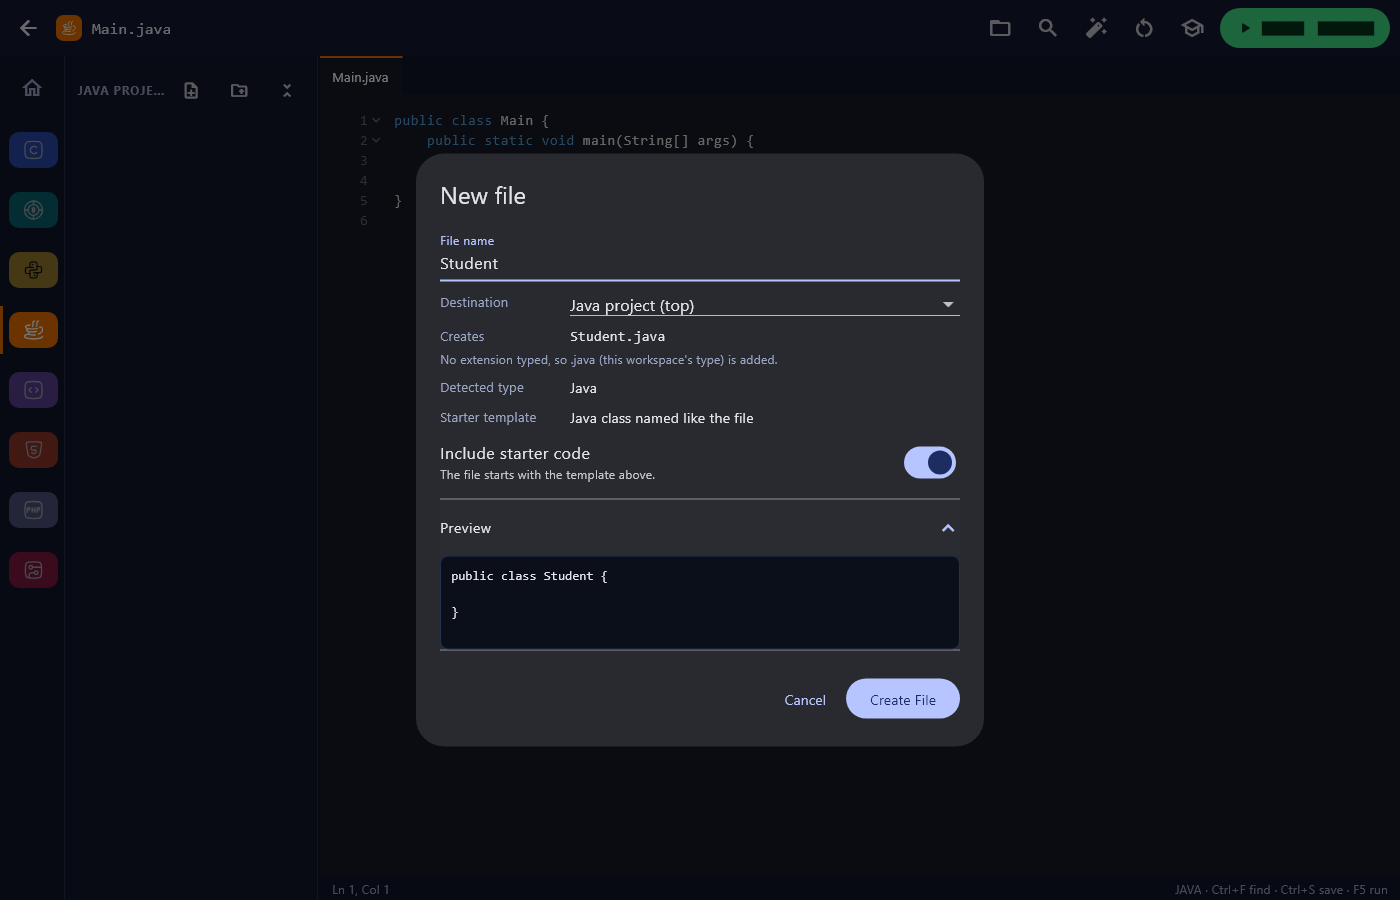
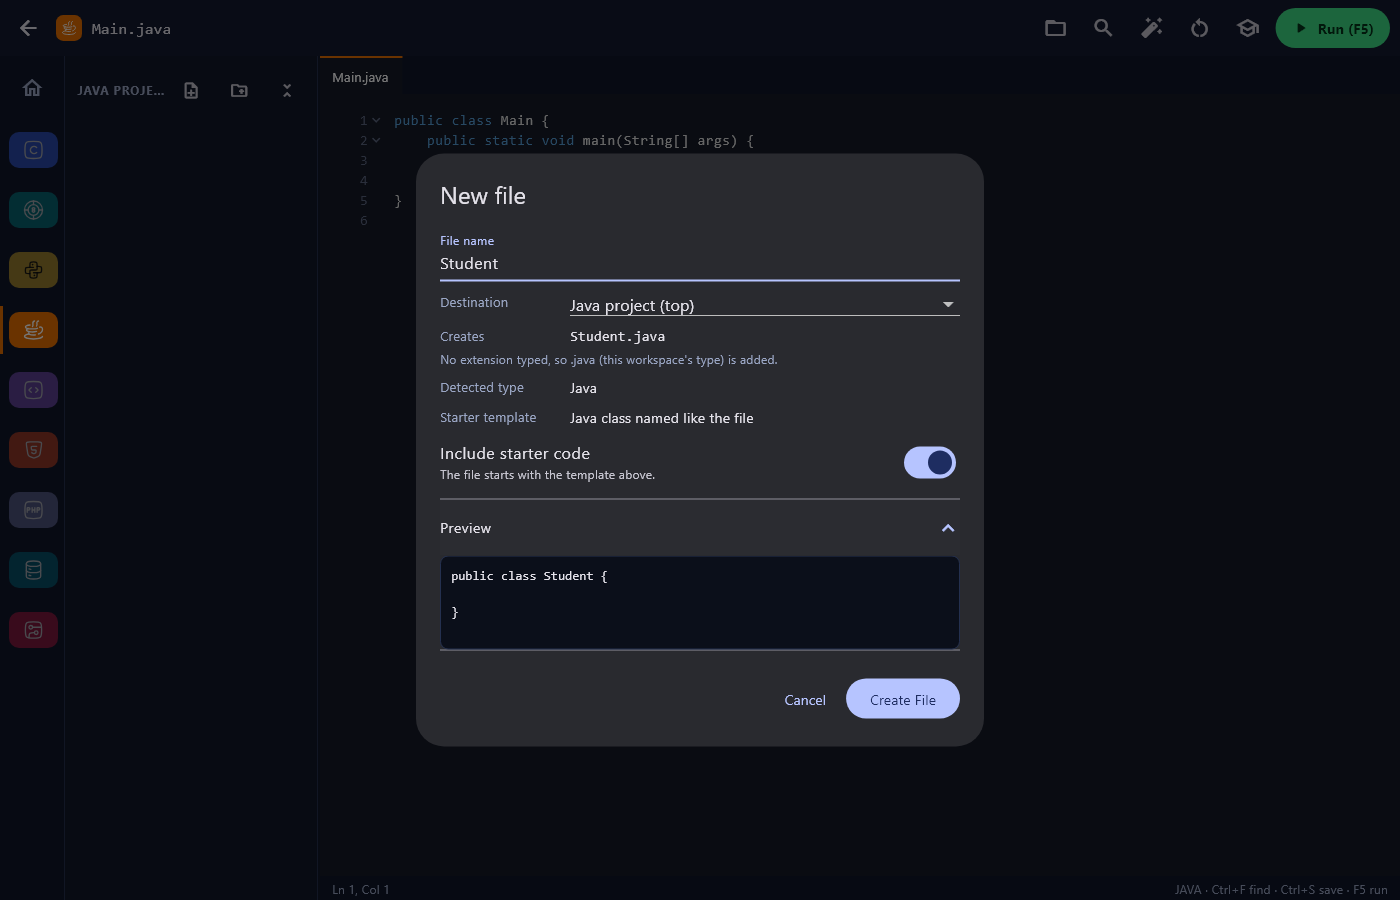
Portfolio kit, refreshed screenshots, Run button uses the theme font
- portfolio/: cover image, 12 captioned screenshots, PORTFOLIO.md (descriptions,
  features, tech stack, role, highlights, credits)
- Run button label keeps the theme's font (it lost it when styled bold)
- Screenshot tool: desktop run shot, home without a stale update banner

diff --git a/tool/screenshots_test.dart b/tool/screenshots_test.dart
@@ -158,7 +158,10 @@ void main() {
   });
 
   testWidgets('home (desktop and phone)', (t) async {
-    t.view.physicalSize = const Size(1280, 975);
+    Updater.instance
+      ..status = UpdateStatus.idle // the update-dialog shot above leaves an update "available"
+      ..latest = null;
+    t.view.physicalSize = const Size(1440, 1240);
     t.view.devicePixelRatio = 1;
     await t.pumpWidget(NexusApp(ready: Future.value()));
     await settle(t);
@@ -190,7 +193,7 @@ void main() {
     await t.pumpWidget(MaterialApp(debugShowCheckedModeBanner: false, theme: Nx.theme(), home: const LearnScreen()));
     await settle(t);
     if (find.byKey(const Key('learn-search')).evaluate().isEmpty) {
-      await t.tap(find.byTooltip('Open navigation menu'));
+      await t.tap(find.byTooltip('Topics'));
       await settle(t);
     }
     await t.enterText(find.byKey(const Key('learn-search')), search);
@@ -323,5 +326,41 @@ void main() {
     await t.drag(find.byKey(const Key('pi3d')), const Offset(120, 40));
     await settle(t);
     await shot(t, 'raspi_3d_turned');
+  });
+
+  testWidgets('desktop: a Python program running, terminal docked', (t) async {
+    t.view.physicalSize = const Size(1600, 900);
+    t.view.devicePixelRatio = 1;
+    Toolchains.toolsDir = '${Directory.current.path}/toolchains';
+    File('${Toolchains.workRoot}/python/main.py')
+      ..createSync(recursive: true)
+      ..writeAsStringSync('''# Grade report: lists, loops and f-strings
+students = {"Ana": [91, 88, 95], "Ben": [74, 80, 69], "Cara": [85, 90, 87]}
+
+print("Student   Average  Remark")
+print("-" * 28)
+for name, scores in students.items():
+    average = sum(scores) / len(scores)
+    remark = "Passed" if average >= 75 else "Failed"
+    print(f"{name:<9} {average:>7.2f}  {remark}")
+
+best = max(students, key=lambda n: sum(students[n]))
+print()
+print(f"Top student: {best}")
+''');
+    await t.pumpWidget(NexusApp(ready: Future.value()));
+    await settle(t);
+    await t.tap(find.text('Scripts and data'));
+    await settle(t);
+    await t.tap(find.byType(RunButton));
+    RunState state() => (find.byType(ConsoleView).evaluate().first.widget as ConsoleView).session.state;
+    for (var i = 0; i < 100 && (find.byType(ConsoleView).evaluate().isEmpty || state() != RunState.finished); i++) {
+      await settle(t);
+    }
+    await settle(t);
+    await shot(t, 'desktop_run');
+    await t.pumpWidget(const SizedBox()); // close the editor (ends the session) and let its timers finish
+    await t.runAsync(() => Future<void>.delayed(const Duration(milliseconds: 300)));
+    await t.pump(const Duration(seconds: 5));
   });
 }

diff --git a/lib/ui/widgets/run_button.dart b/lib/ui/widgets/run_button.dart
@@ -22,7 +22,7 @@ class RunButton extends StatelessWidget {
         backgroundColor: running ? Nx.stop : Nx.run,
         foregroundColor: running ? Colors.white : const Color(0xFF05351B),
         padding: const EdgeInsets.symmetric(horizontal: 16),
-        textStyle: const TextStyle(fontWeight: FontWeight.w700),
+        textStyle: Theme.of(context).textTheme.labelLarge?.copyWith(fontWeight: FontWeight.w700), // the theme's font, bolder
       ),
       icon: Icon(running ? Icons.stop_rounded : icon),
       label: Text(running ? 'Stop' : '$label$hint'),

diff --git a/portfolio/PORTFOLIO.md b/portfolio/PORTFOLIO.md
@@ -1,0 +1,110 @@
+# NEXUS IDE: portfolio kit
+
+Everything for a portfolio entry, ready to copy: titles, descriptions in three lengths, features, tech stack, your role, highlights, links, and a caption for each image in this folder.
+
+---
+
+## Title
+
+**NEXUS IDE: An Offline Coding Classroom for Phones and Lab PCs**
+
+## Tagline (one line)
+
+Write, run and learn C, Python, Java, C#, Web, PHP, SQL, Arduino and Raspberry Pi on an Android phone or a Windows lab PC, with no internet needed.
+
+## Short description (about 50 words, for cards and previews)
+
+NEXUS IDE is an offline programming environment I built with Flutter for CTU Naga Extension Campus. It compiles and runs nine kinds of projects directly on Android phones and Windows PCs. It also includes Learn & Practice: 75 lessons, 90 quiz questions and 27 automatically checked exercises.
+
+## Full description (for the project page)
+
+Many students at CTU Naga Extension Campus learn to program on shared lab PCs or on their own phones, often without a reliable internet connection. NEXUS IDE puts a complete coding classroom into one free app that works offline on **Android and Windows**.
+
+Students pick a workspace (C, Python, Java, C#, Web, PHP, Database/SQL, Arduino or Raspberry Pi), write code in a syntax-highlighted editor with auto-indent, autocomplete and a coding key bar for phone keyboards, and press **Run**. The compilers are bundled inside the app: GCC/TCC for C, Python, Java (JDK on PCs, ecj with Android's own runtime on phones), .NET/Mono for C#, PHP with MariaDB, and avr-gcc for Arduino, which uploads to a real board over USB OTG. On phones, the program runs in a full-screen terminal with an input bar for interactive programs.
+
+Web and PHP projects work **the XAMPP way**: each project is a folder in `htdocs`, opened at `http://localhost/<project>/` in the student's real browser on Windows, or inside the app on phones. New projects can start from ready-made **tech stacks** (HTML + Bootstrap 5, PHP + MySQL, PHP + SQLite, and a Bootstrap + MySQL CRUD app), all working offline. The **Database** workspace runs SQL on SQLite (built in) or MySQL, and prints the results as tables. The **Raspberry Pi** workspace simulates GPIO pins on a 2D board or on a 3D Raspberry Pi 3 model that students can turn, with LEDs lighting up and buttons to press.
+
+**Learn & Practice** turns the IDE into a classroom: nine tracks with 75 lessons. Each lesson has an objective, an explanation, the syntax, a complete example, a common mistake and its fix, a practice task and references to the official documentation. There are 90 quiz questions and 27 exercises that NEXUS checks by actually running the student's code against test cases. Every lesson example is verified automatically against the real compilers, and the database lessons on both SQLite and MySQL.
+
+The app updates itself from GitHub Releases (with checksum verification), and it is open source under the MIT license.
+
+## Key features
+
+- **9 workspaces:** C, Python, Java, C#, Web (HTML/CSS/JS with a drag-and-drop designer), PHP + MySQL, Database (SQLite or MySQL), Arduino and Raspberry Pi.
+- **Fully offline:** compilers and runtimes are bundled for Android and Windows.
+- **Code editor:** syntax highlighting, auto-indent, autocomplete, Format, find, a file explorer with tabs, an active-line highlight, bracket matching, and arrow and coding keys for phones.
+- **Separated terminal output:** program output, build details and run status are kept apart. Each run starts clean, with Stop / Run again, clickable error locations, and a full-screen terminal with an input bar on phones.
+- **XAMPP-style htdocs:** project folders at `localhost/<project>/`, a local PHP server, the real browser on Windows, and five tech-stack templates with offline Bootstrap 5.
+- **Database workspace:** SQL on SQLite or MySQL, with identical result tables on both.
+- **Arduino:** compile on the phone and upload over USB OTG (STK500), with board detection and a Serial Monitor.
+- **Raspberry Pi simulator:** RPi.GPIO and GPIO Zero stand-ins, live pins, and an interactive 3D Raspberry Pi 3.
+- **Learn & Practice:** 9 tracks, 75 lessons, 90 quiz questions, 27 auto-checked exercises, progress tracking, and references to official docs.
+- **Smart new files:** starter code chosen by file type and role (for example, `Student.java` becomes `public class Student`), and a guarded "Reset to Starter Code" with undo.
+- **Self-updating:** reads GitHub Releases, verifies the SHA-256 checksum, shows what's new after an update, and displays an update banner.
+
+## Tech stack
+
+- **App:** Flutter / Dart (Material 3, a custom dark theme, Hugeicons). Targets Android (arm64) and Windows (x64).
+- **Bundled toolchains:**
+  - **C:** GCC (MinGW-w64), TCC.
+  - **Python:** Python 3.
+  - **Java:** JDK / ecj + Android's ART.
+  - **C#:** .NET SDK / Mono.
+  - **PHP:** PHP 8 + MariaDB.
+  - **Arduino:** arduino-cli / avr-gcc.
+  - **SQLite:** through Python's sqlite3.
+- **Other:** USB serial with a custom STK500 bootloader protocol, a WebView preview on Android, a Flutter-rendered 3D glTF model, and a GitHub Releases auto-updater.
+- **Quality:** about 100 automated Flutter tests, plus a verification tool that runs every Learn example and exercise through the real compilers. Static analysis is clean.
+
+## My role
+
+I designed and developed the whole application as the sole developer: the product idea, UI/UX, the Flutter app, packaging the offline toolchains for Android and Windows, the Learn & Practice curriculum and its automatic checking, testing, and nine public releases (v1.0.0 to v1.1.7) on GitHub.
+
+## Highlights (engineering challenges)
+
+- **Real compilers on a phone, offline:** C, Java, C#, Python and PHP run on Android by bundling and wiring up Linux toolchains. Arduino sketches are compiled and uploaded over USB OTG with a hand-written STK500 implementation.
+- **Honest auto-grading:** exercises run the student's real code against test cases with time limits. Hardware and visual exercises never claim "Passed" without a real check; a checklist covers those parts instead.
+- **XAMPP-like local hosting:** NEXUS picks port 80, or 8080 when Apache is running, checks both IPv4 and IPv6 so the browser never reaches another server, and stops the server cleanly when the app closes.
+- **3D without a web view:** the Raspberry Pi 3 glTF model is drawn with Flutter's own canvas (depth-sorted triangles), so it works offline on Windows and Android with live GPIO pins on its header.
+- **Verified content:** every lesson example is run automatically, and the SQL lessons on both SQLite and MySQL. This caught real problems before students could.
+
+## Numbers
+
+| | |
+|---|---|
+| Workspaces | 9 |
+| Learn tracks / lessons | 9 / 75 |
+| Quiz questions / exercises | 90 / 27 |
+| Automated tests | ~100 (plus every lesson example verified) |
+| Code | ~13,000 lines of Dart |
+| Releases | 9 (v1.0.0 to v1.1.7) |
+| Platforms | Android (arm64), Windows (x64) |
+
+## Links
+
+- Source code (MIT): https://github.com/Ezgaminglogan/nexus-ide
+- Downloads (APK and Windows zip): https://github.com/Ezgaminglogan/nexus-ide/releases/latest
+
+## Screenshots and captions
+
+| File | Caption |
+|---|---|
+| `00-cover.png` | NEXUS IDE on Windows and Android: one offline coding classroom. |
+| `01-home-desktop.png` | Home on a lab PC: nine workspaces, each with what you can build and where it runs. |
+| `02-editor-and-terminal-desktop.png` | Python running on Windows: the editor with a file explorer and a docked terminal showing the program's output and exit status. |
+| `03-home-phone.png` | The same home screen on an Android phone. |
+| `04-full-screen-terminal-phone.png` | On phones, Run opens a full-screen terminal. Interactive programs read input from the bar above the keyboard. |
+| `05-learn-lesson.png` | Learn & Practice: a lesson with search, topics, highlighted syntax and runnable examples. |
+| `06-learn-databases-track.png` | The Databases track: pick SQLite or MySQL and every lesson adapts. The runtime badge shows what runs your code. |
+| `07-htdocs-projects.png` | PHP and Web projects the XAMPP way: folders in htdocs, opened at localhost/project/. |
+| `08-tech-stacks.png` | Start a project from a tech stack: Bootstrap, PHP + MySQL, PHP + SQLite, or a full CRUD app. |
+| `09-sql-on-sqlite-phone.png` | SQL on a phone: SQLite runs offline and prints results as tables. |
+| `10-raspberry-pi-3d.png` | The Raspberry Pi simulator on a 3D Raspberry Pi 3 you can turn, with live GPIO pins. |
+| `11-new-file-starter-code.png` | New files start with the right starter code for their type and role, with a preview. |
+| `12-checked-exercise.png` | Exercises are checked by running the student's code against real test cases. |
+
+## Credits (keep these when you publish)
+
+- 3D model: "Raspberry Pi 3" by JoSaCo (Sketchfab), licensed CC BY 4.0, shown in `10-raspberry-pi-3d.png`.
+- Bootstrap 5 (MIT) is bundled for the tech stacks.
+- The screenshots are rendered from the real app's widgets with Flutter's test engine at desktop and phone sizes.
